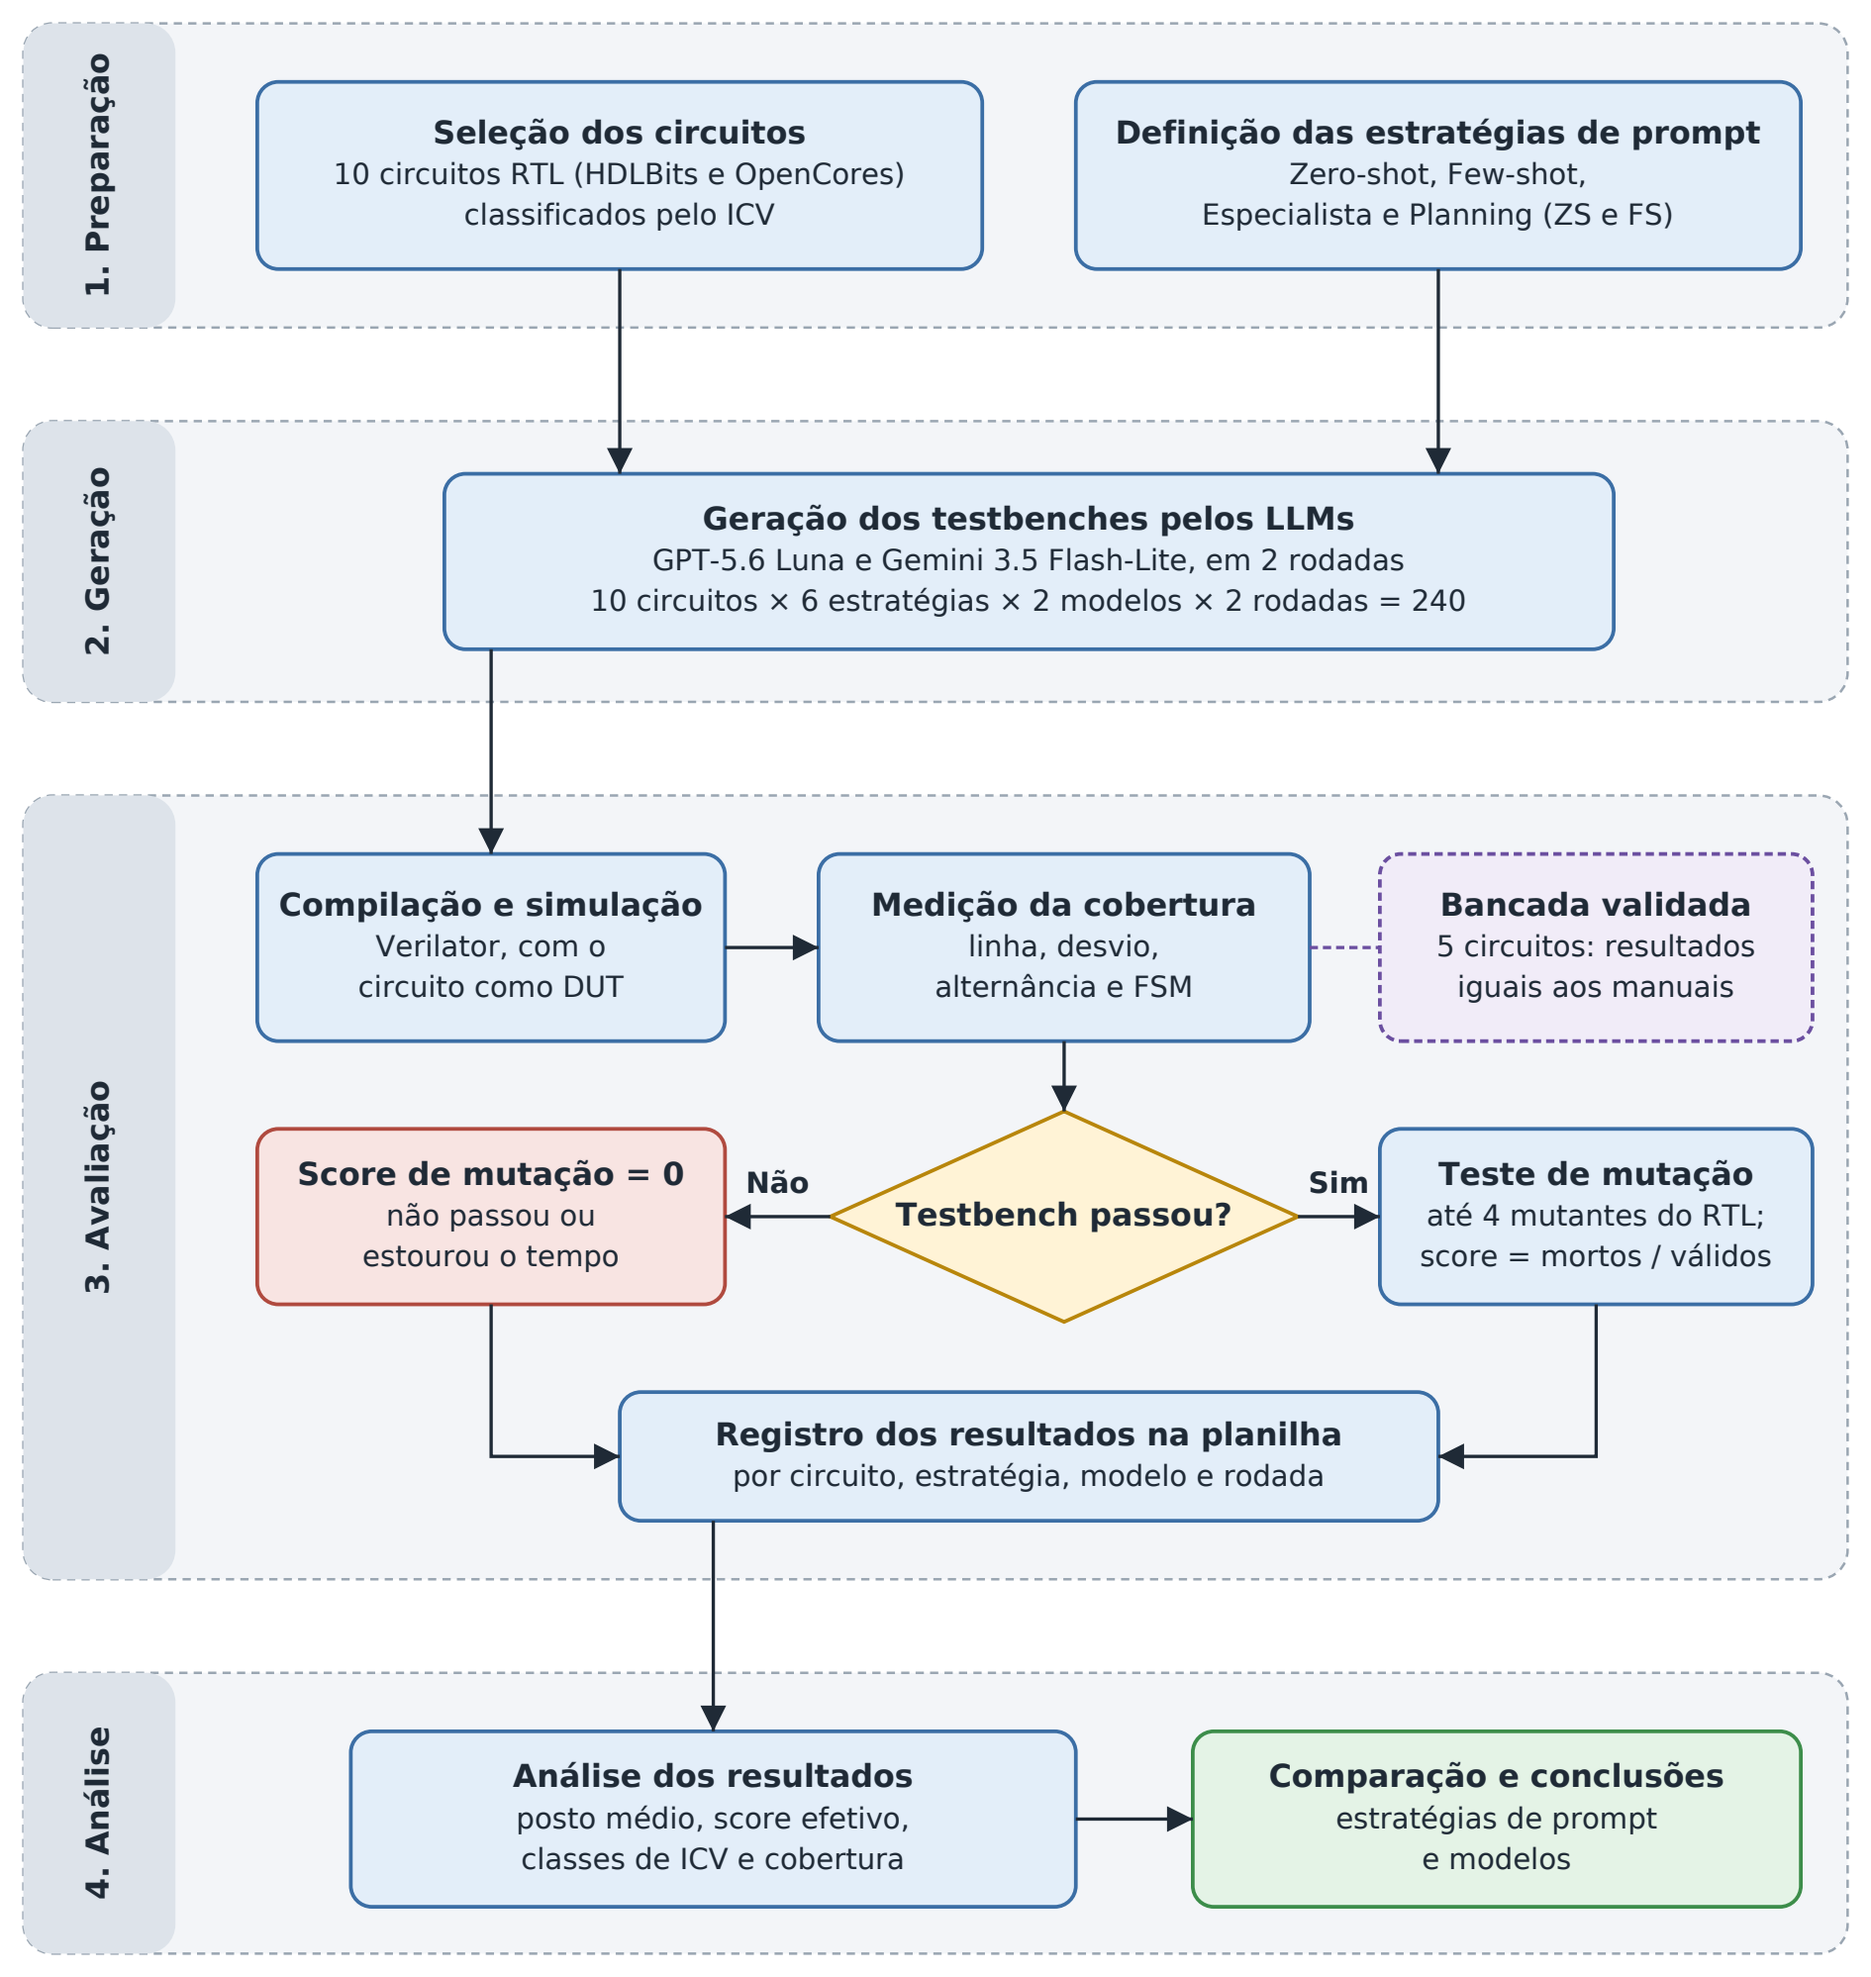
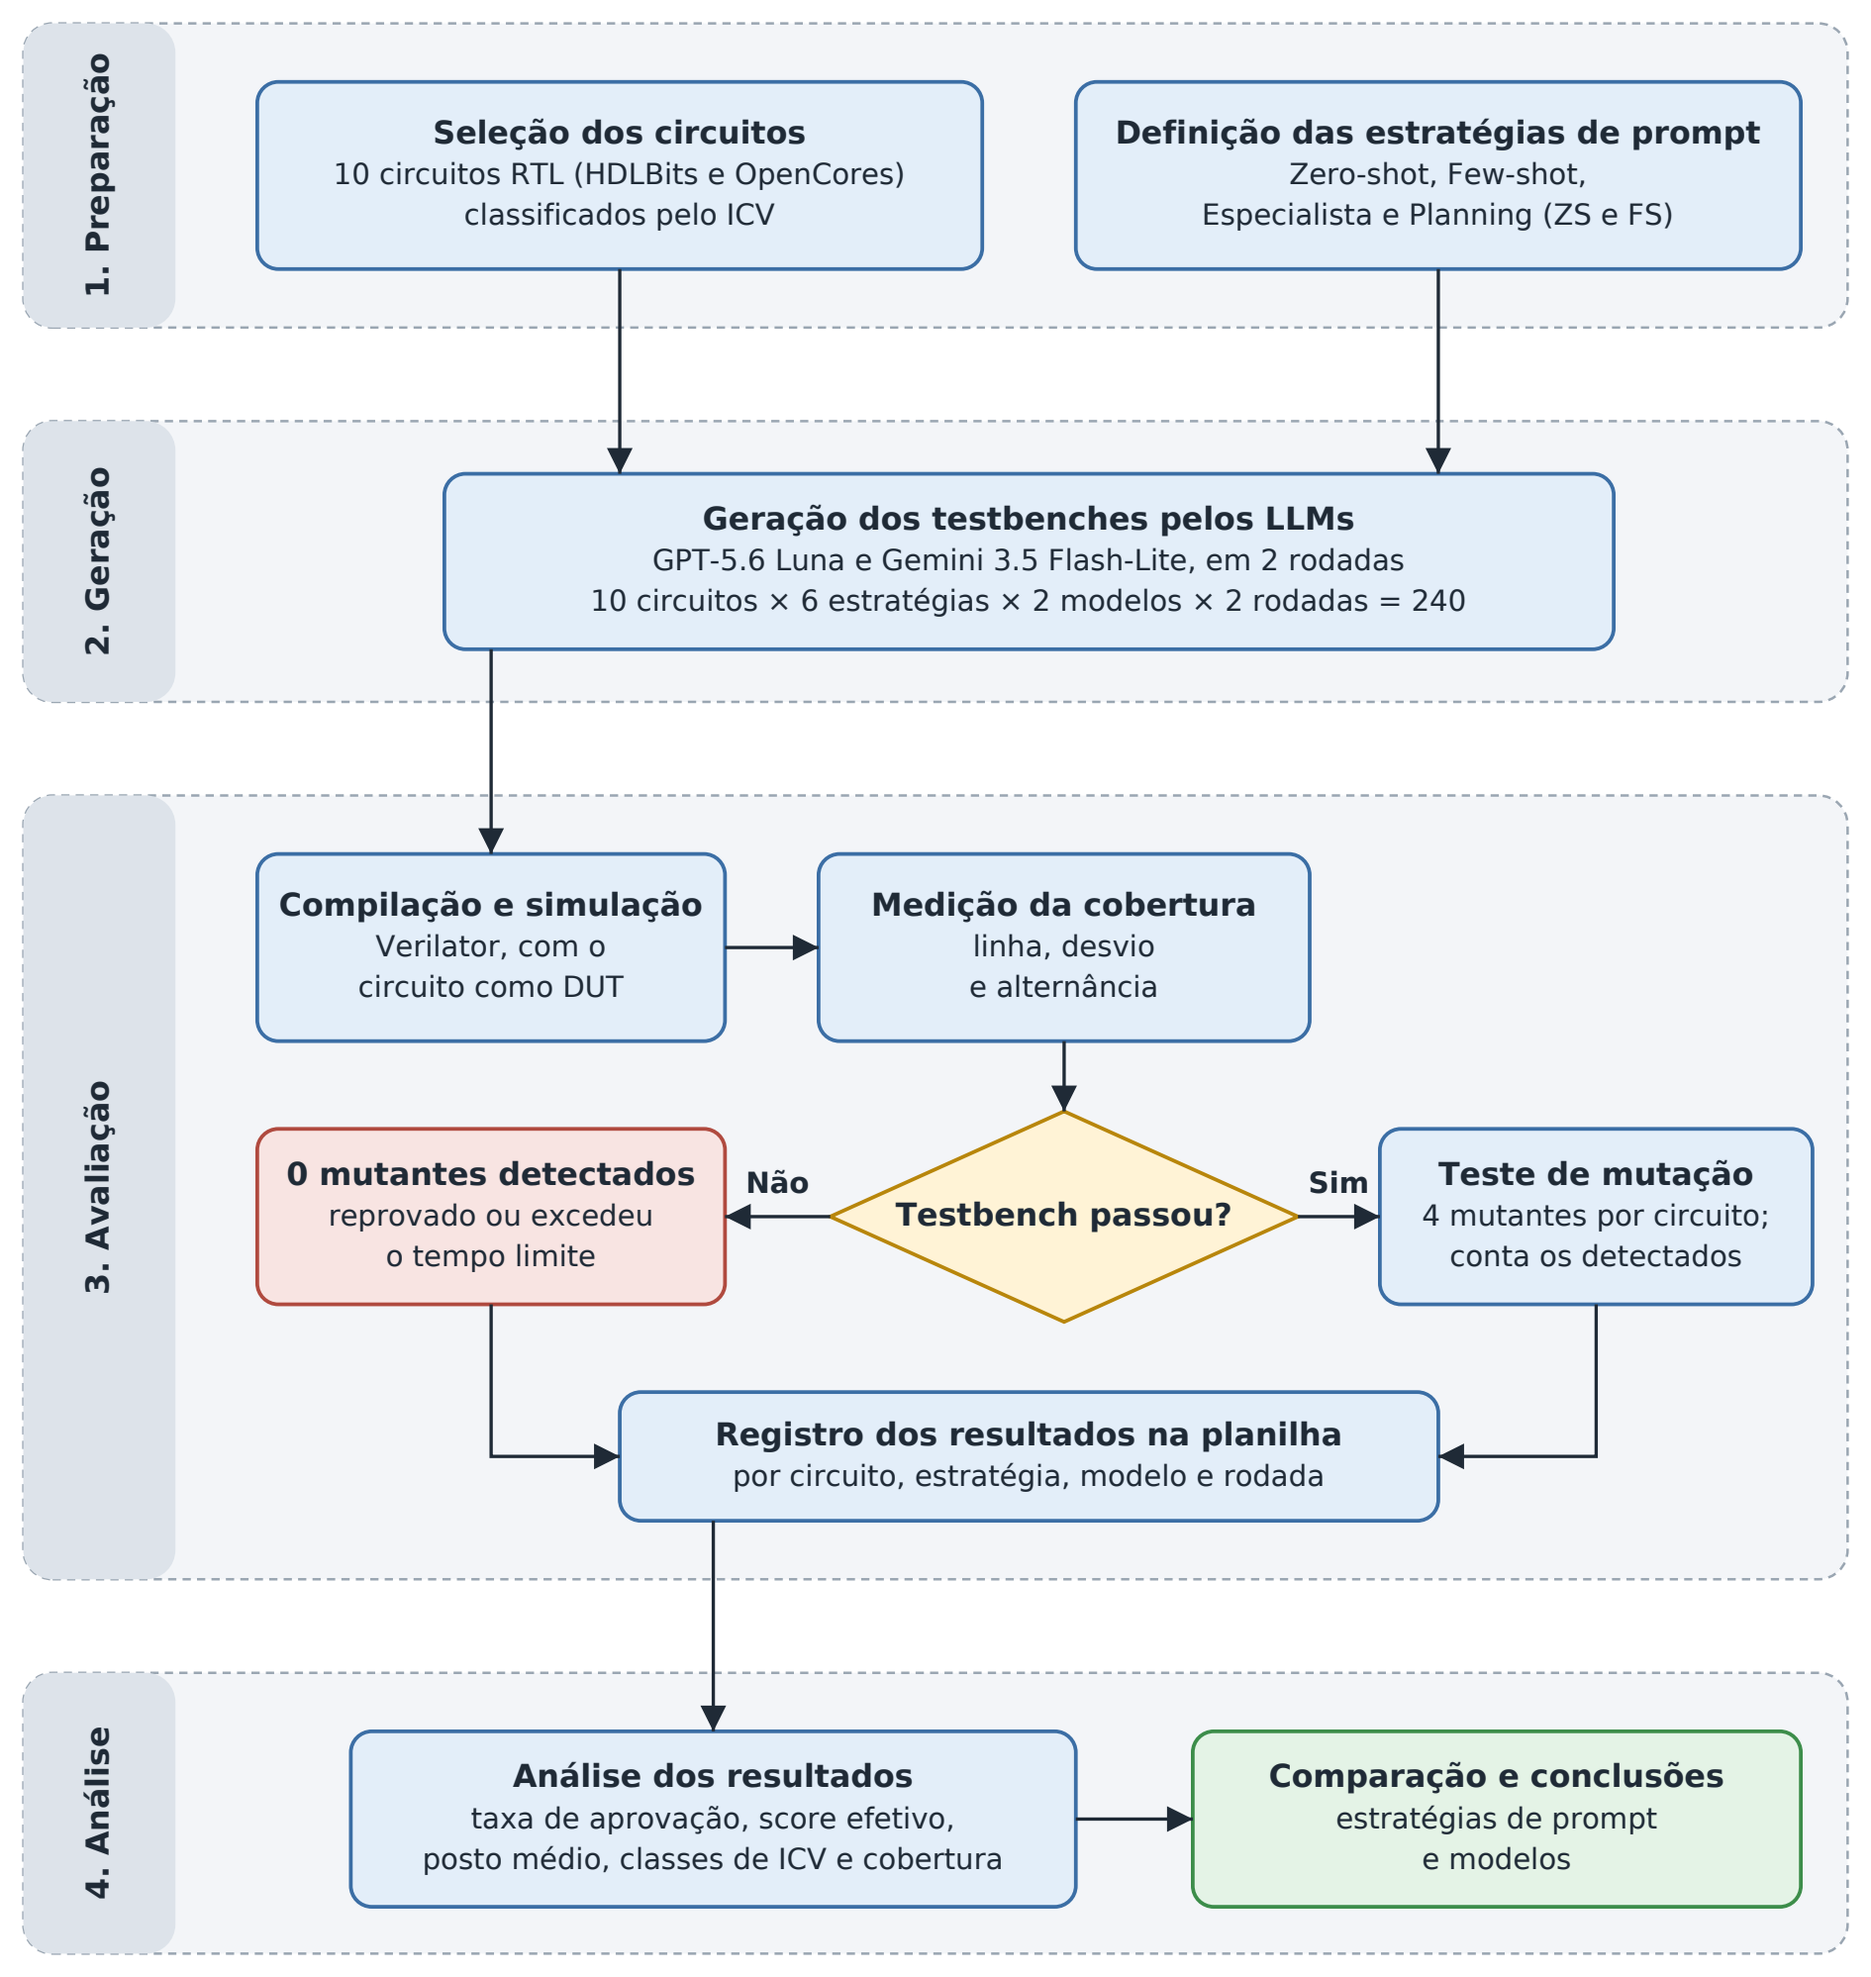
Figura do processo: sem FSM e sem a caixa da validacao
A cobertura agora e linha, desvio e alternancia, ja que a FSM saiu do
TCC. O teste de mutacao diz "4 mutantes por circuito; conta os
detectados" e o ramo Nao diz "0 mutantes detectados", como na Analise.
A analise inclui a taxa de aprovacao. A caixa "Bancada validada" saiu,
porque a validacao foi feita uma vez, a parte do fluxo, e fica so no
texto.

diff --git a/analise/figuras/figura_processo.py b/analise/figuras/figura_processo.py
@@ -118,21 +118,14 @@ seta((123, 23), (123, 40.5))
 
 # 3. avaliação na bancada
 caixa(22, 73, 40, 16, ["Compilação e simulação", "Verilator, com o", "circuito como DUT"])
-caixa(70, 73, 42, 16, ["Medição da cobertura", "linha, desvio,", "alternância e FSM"])
+caixa(70, 73, 42, 16, ["Medição da cobertura", "linha, desvio", "e alternância"])
 seta((42, 55.5), (42, 73))
 seta((62, 81), (70, 81))
-# validação da bancada: verificação feita uma vez, à parte do fluxo de cada testbench
-c.setFillColor(HexColor("#F1ECF8")); c.setStrokeColor(HexColor("#6B4FA0")); c.setLineWidth(0.9)
-c.setDash(2, 1.2)
-c.roundRect(118 * mm, Y(73 + 16), 37 * mm, 16 * mm, 1.8 * mm, fill=1, stroke=1)
-c.setStrokeColor(HexColor("#6B4FA0")); c.setLineWidth(0.8)
-c.line(112 * mm, Y(81), 118 * mm, Y(81))
-c.setDash()
-texto(118 + 37 / 2, 73 + 8, ["Bancada validada", "5 circuitos: resultados", "iguais aos manuais"])
+# a validação da bancada (feita uma vez, à parte) fica só no texto, não na figura
 losango(91, 104, 40, 18, ["Testbench passou?"])
 seta((91, 89), (91, 95))
-caixa(118, 96.5, 37, 15, ["Teste de mutação", "até 4 mutantes do RTL;", "score = mortos / válidos"])
-caixa(22, 96.5, 40, 15, ["Score de mutação = 0", "não passou ou", "estourou o tempo"], fundo=NEG, borda=NEG_BORDA)
+caixa(118, 96.5, 37, 15, ["Teste de mutação", "4 mutantes por circuito;", "conta os detectados"])
+caixa(22, 96.5, 40, 15, ["0 mutantes detectados", "reprovado ou excedeu", "o tempo limite"], fundo=NEG, borda=NEG_BORDA)
 seta((111, 104), (118, 104), rotulo="Sim", pos_rotulo=(114.5, 102))
 seta((71, 104), (62, 104), rotulo="Não", pos_rotulo=(66.5, 102))
 caixa(53, 119, 70, 11, ["Registro dos resultados na planilha", "por circuito, estratégia, modelo e rodada"])
@@ -140,7 +133,7 @@ seta((136.5, 111.5), (136.5, 124.5), (123, 124.5))
 seta((42, 111.5), (42, 124.5), (53, 124.5))
 
 # 4. análise
-caixa(30, 148, 62, 15, ["Análise dos resultados", "posto médio, score efetivo,", "classes de ICV e cobertura"])
+caixa(30, 148, 62, 15, ["Análise dos resultados", "taxa de aprovação, score efetivo,", "posto médio, classes de ICV e cobertura"])
 caixa(102, 148, 52, 15, ["Comparação e conclusões", "estratégias de prompt", "e modelos"], fundo=FIM, borda=FIM_BORDA)
 seta((61, 130), (61, 148))
 seta((92, 155.5), (102, 155.5))
